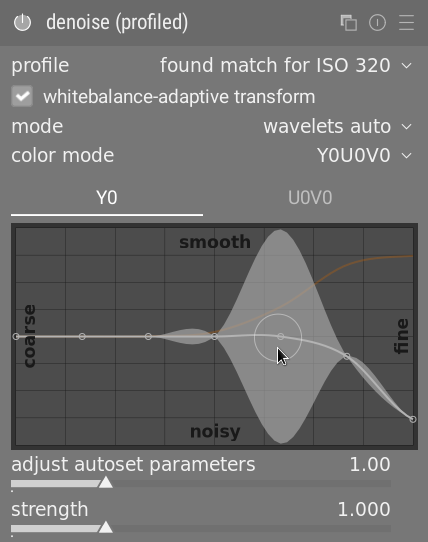
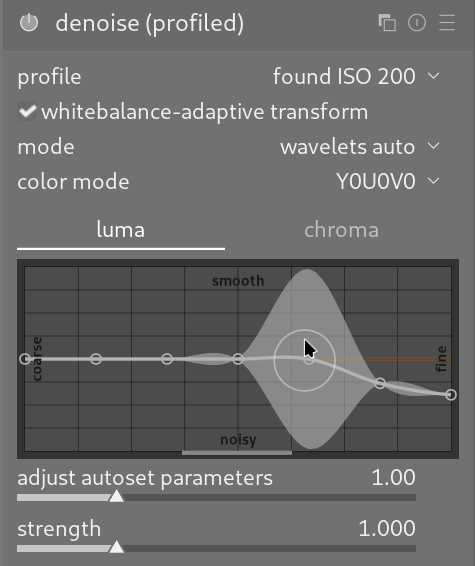
Update denoise profiled doc

diff --git a/content/module-reference/processing-modules/denoise-profiled.md b/content/module-reference/processing-modules/denoise-profiled.md
@@ -111,11 +111,11 @@ Wavelet curves are shown when one of the “wavelet” modes is selected.
 
 The noise in an image usually consists of both fine grain and coarse grain noise, to varying degrees. The wavelet curves allow the strength of the denoising to be adjusted depending on the coarseness of the visible noise. The left end of the curve will act on very coarse grain noise, while the right of the curve will act on very fine grain noise. Raising the curve will increase the amount of smoothing, while lowering the curve will decrease it.
 
-For example, you can preserve very-fine-grain noise by pulling the right-most part of the curve down. When tackling chroma noise (e.g. on a U0V0 curve, or on a second module instance with a color blend mode) you can safely raise the right side of the curve, since colors do not change a lot on fine scales. This can be useful if you see some noisy isolated pixels with the wrong color.
+For example, you can preserve very-fine-grain noise by pulling the right-most part of the curve down. When tackling chroma noise (e.g. on a chroma curve, or on a second module instance with a color blend mode) you can safely raise the right side of the curve, since colors do not change a lot on fine scales. This can be useful if you see some noisy isolated pixels with the wrong color.
 
 ## wavelets _Y0U0V0_ color mode
 
-The preferred way to use wavelets is with the _Y0U0V0_ color mode. This mode separates the denoising curves into luminance (_Y0_) and color (_U0V0_) components. You can then use the _Y0_ curve to control the level of luma denoising, and the _U0V0_ curve to control the level of chroma denoising.
+The preferred way to use wavelets is with the _Y0U0V0_ color mode. This mode separates the denoising curves into luminance (_luma_) and color (_chroma_) components. You can then use the _luma_ curve to control the level of luma denoising, and the _chroma_ curve to control the level of chroma denoising.
 
 ![denoise-y0u0v0](./denoise-profiled/denoise-y0u0v0.png#w33)
 
